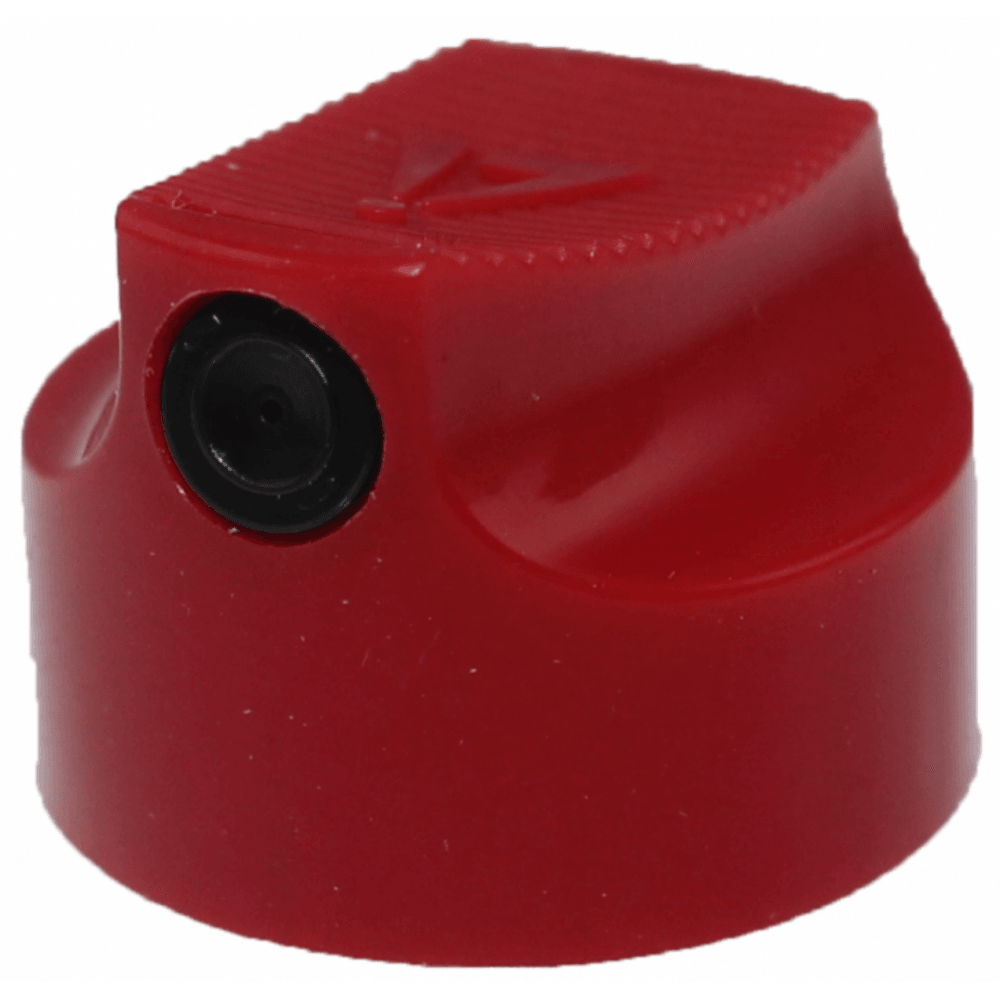
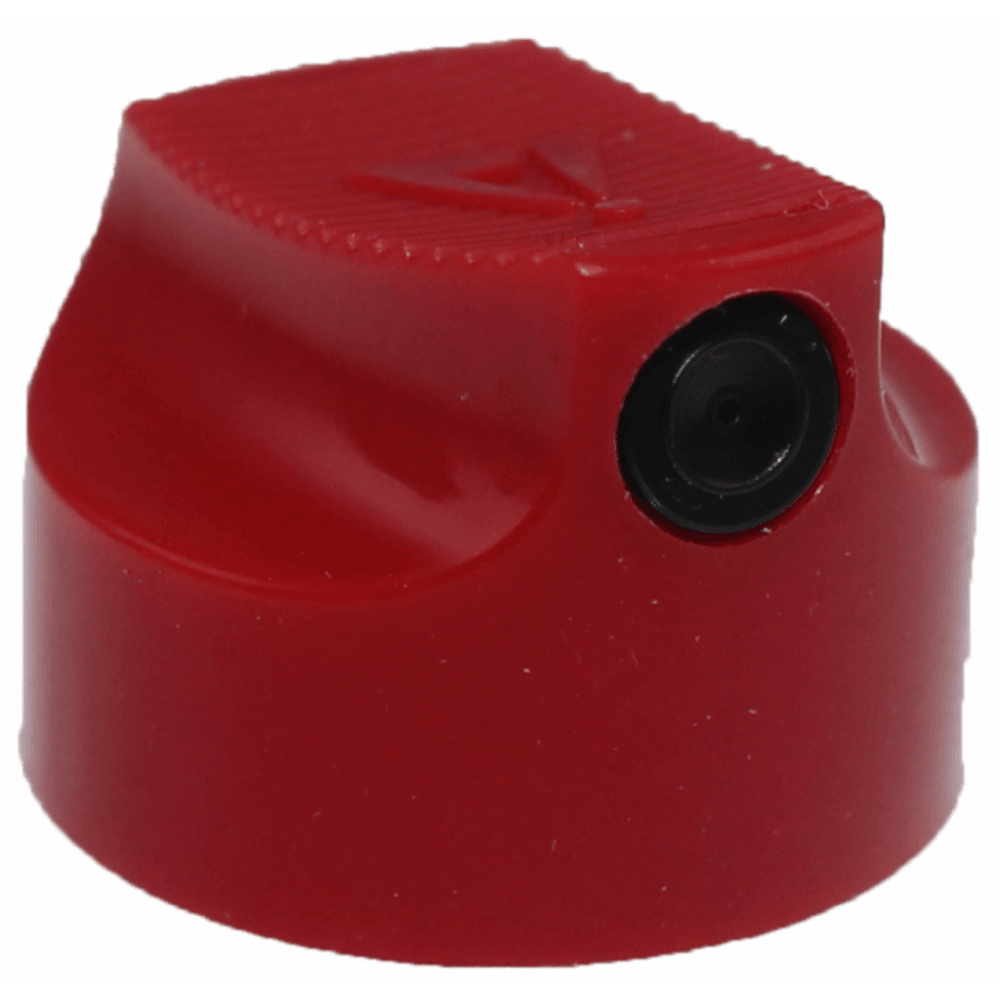
Spray Cap V1 complete

diff --git a/blenderProjects/sprayCap.html b/blenderProjects/sprayCap.html
@@ -19,11 +19,12 @@
         </header>
         <main id="project">
             <img src="../images/sprayCap.png" height="720px">
+            <img src="../images/sprayCapWireFrame.png" height="720px">
+            <img src="../images/sprayCap1.png" height="720px">
             <h2>Spray Cap - Rendered in Cycles</h2>
-            <p>This model is a recreation of a spray paint nozzle/cap 
+            <p>I have been interested in graffiti for a long time so I decided to model a spray paint nozzle/cap in June 2022.
+               The curves were created by using a boolean modifier 
             </p>
-            <h3>Process images</h3>
-            <img src="../images/sprayCap1.png" height="480px">
         </main>
         <footer>
             <h1>Contact Me</h1>
